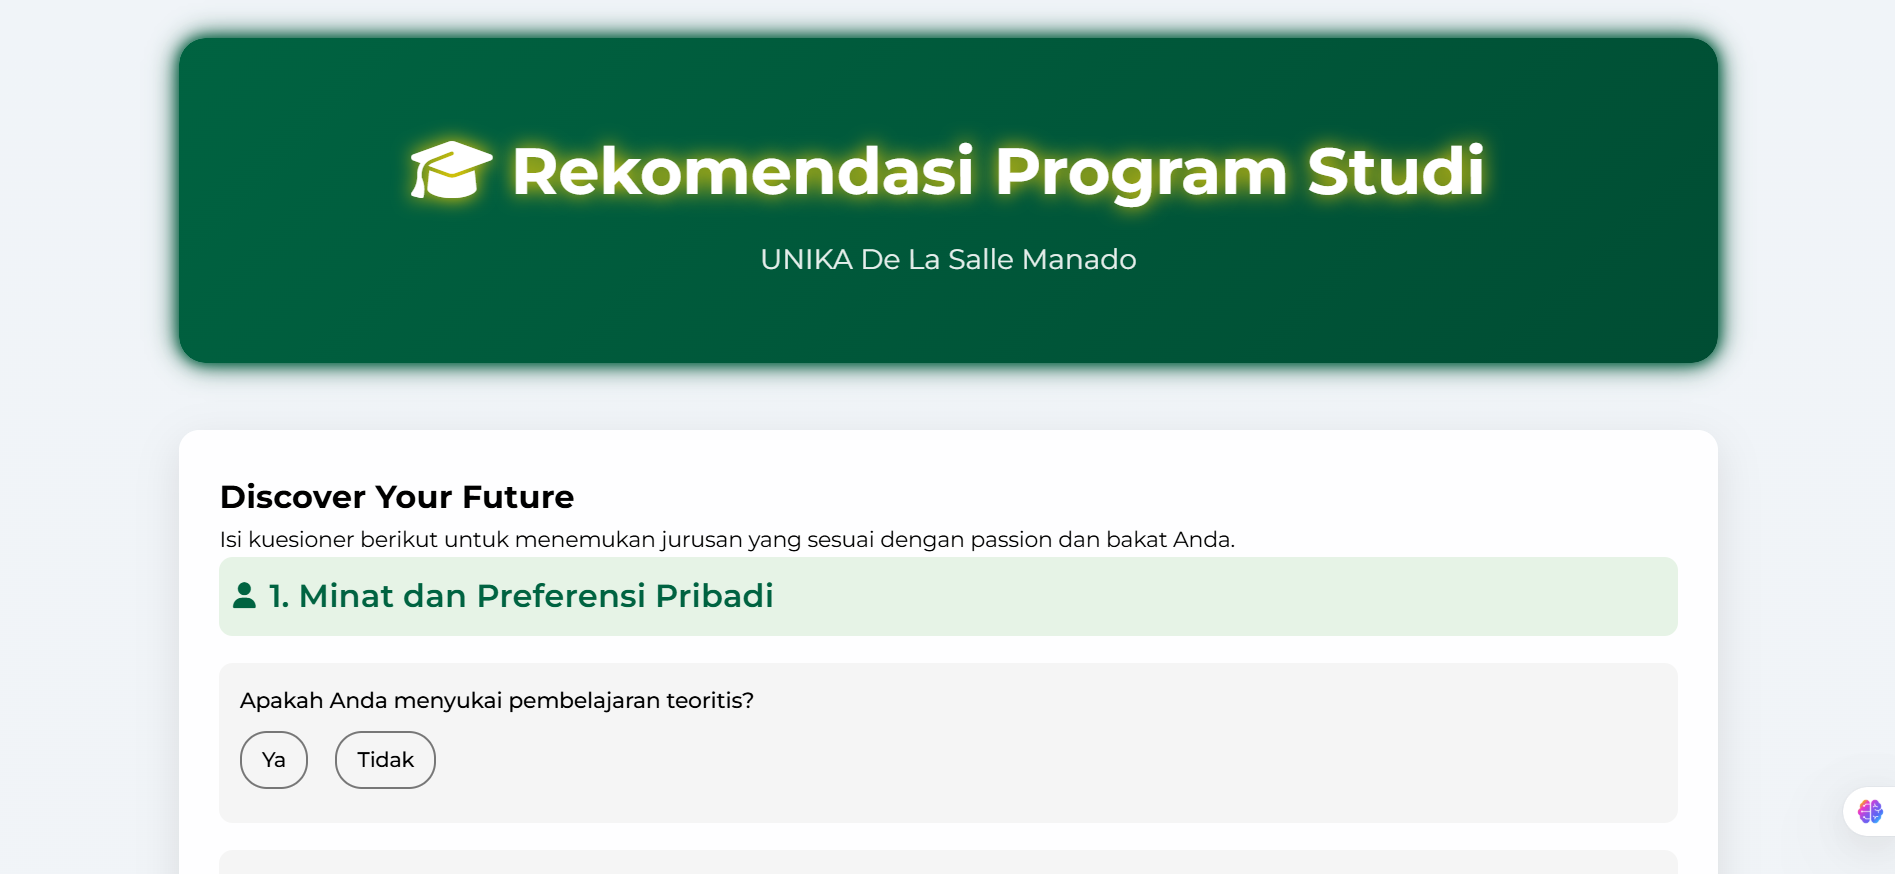
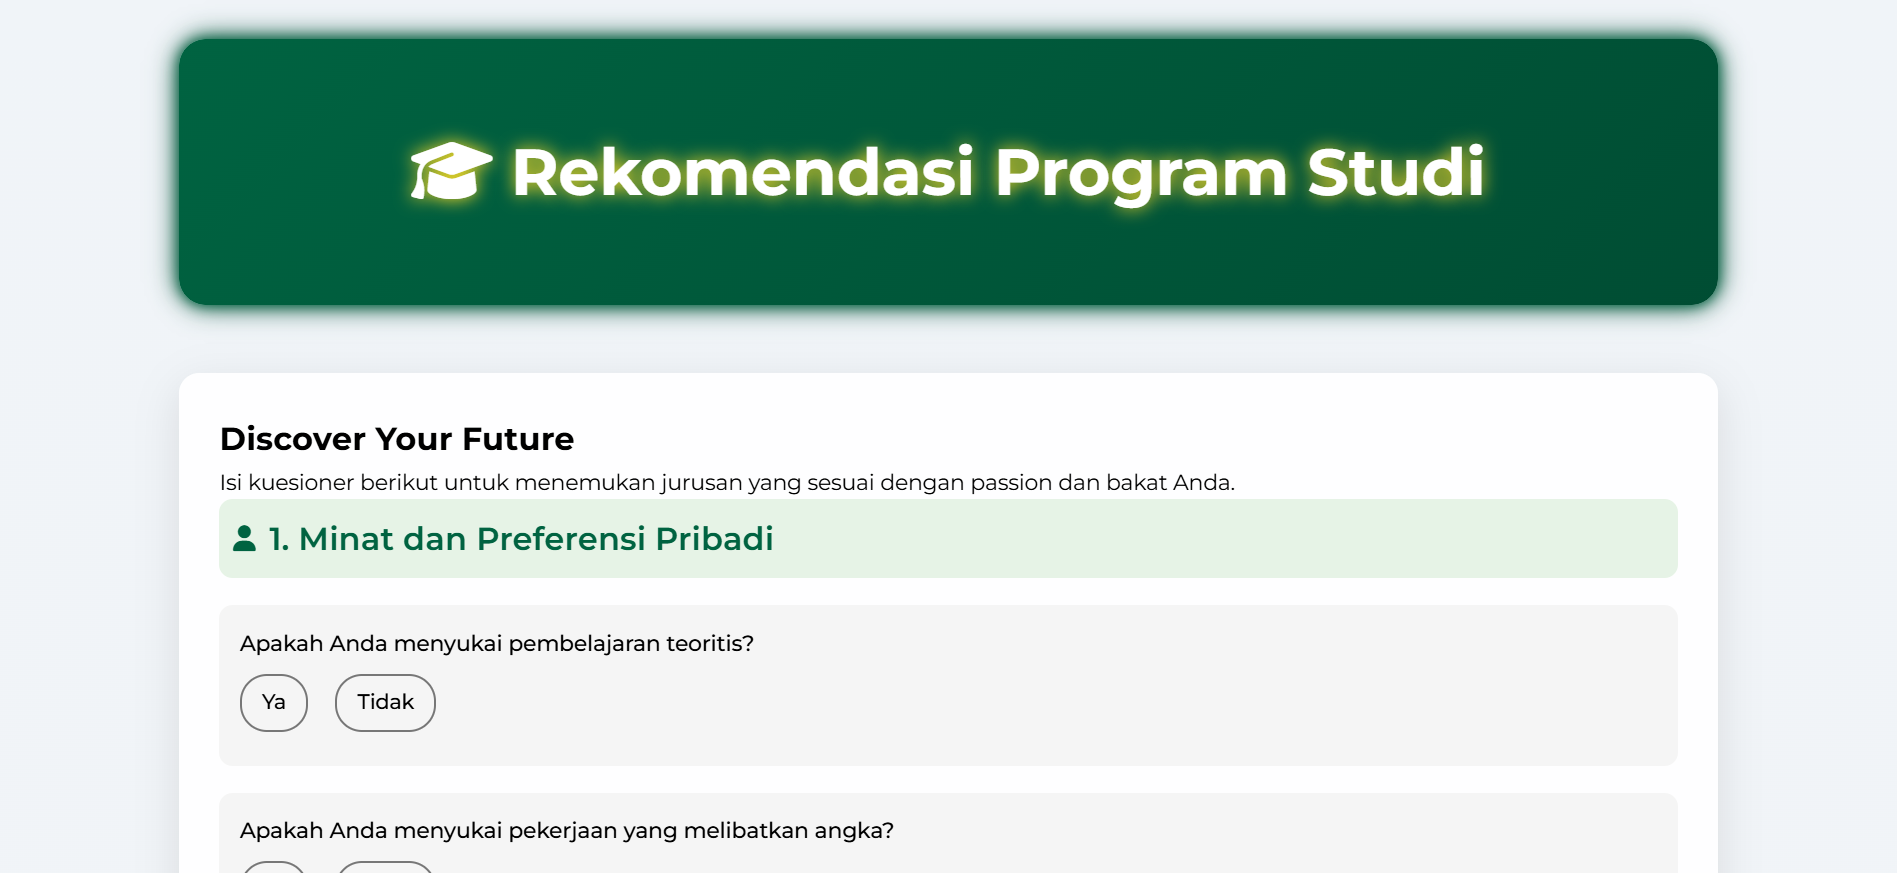
update sistem

diff --git a/templates/index.html b/templates/index.html
@@ -3,7 +3,7 @@
 <head>
     <meta charset="UTF-8">
     <meta name="viewport" content="width=device-width, initial-scale=1.0">
-    <title>Rekomendasi Jurusan UNIKA De La Salle</title>
+    <title>Rekomendasi Jurusan</title>
     <link rel="stylesheet" href="{{ url_for('static', filename='style.css') }}">
     <link href="https://fonts.googleapis.com/css2?family=Montserrat:wght@300;400;500;600;700&display=swap" rel="stylesheet">
     <link rel="stylesheet" href="https://cdnjs.cloudflare.com/ajax/libs/font-awesome/6.4.2/css/all.min.css">
@@ -18,7 +18,7 @@
                 <div class="particle" style="width: 12px; height: 12px; left: 80%; animation-delay: 4s;"></div>
             </div>
             <h1><i class="fas fa-graduation-cap"></i> Rekomendasi Program Studi</h1>
-            <p>UNIKA De La Salle Manado</p>
+            
         </header>
 
         <div class="card">
